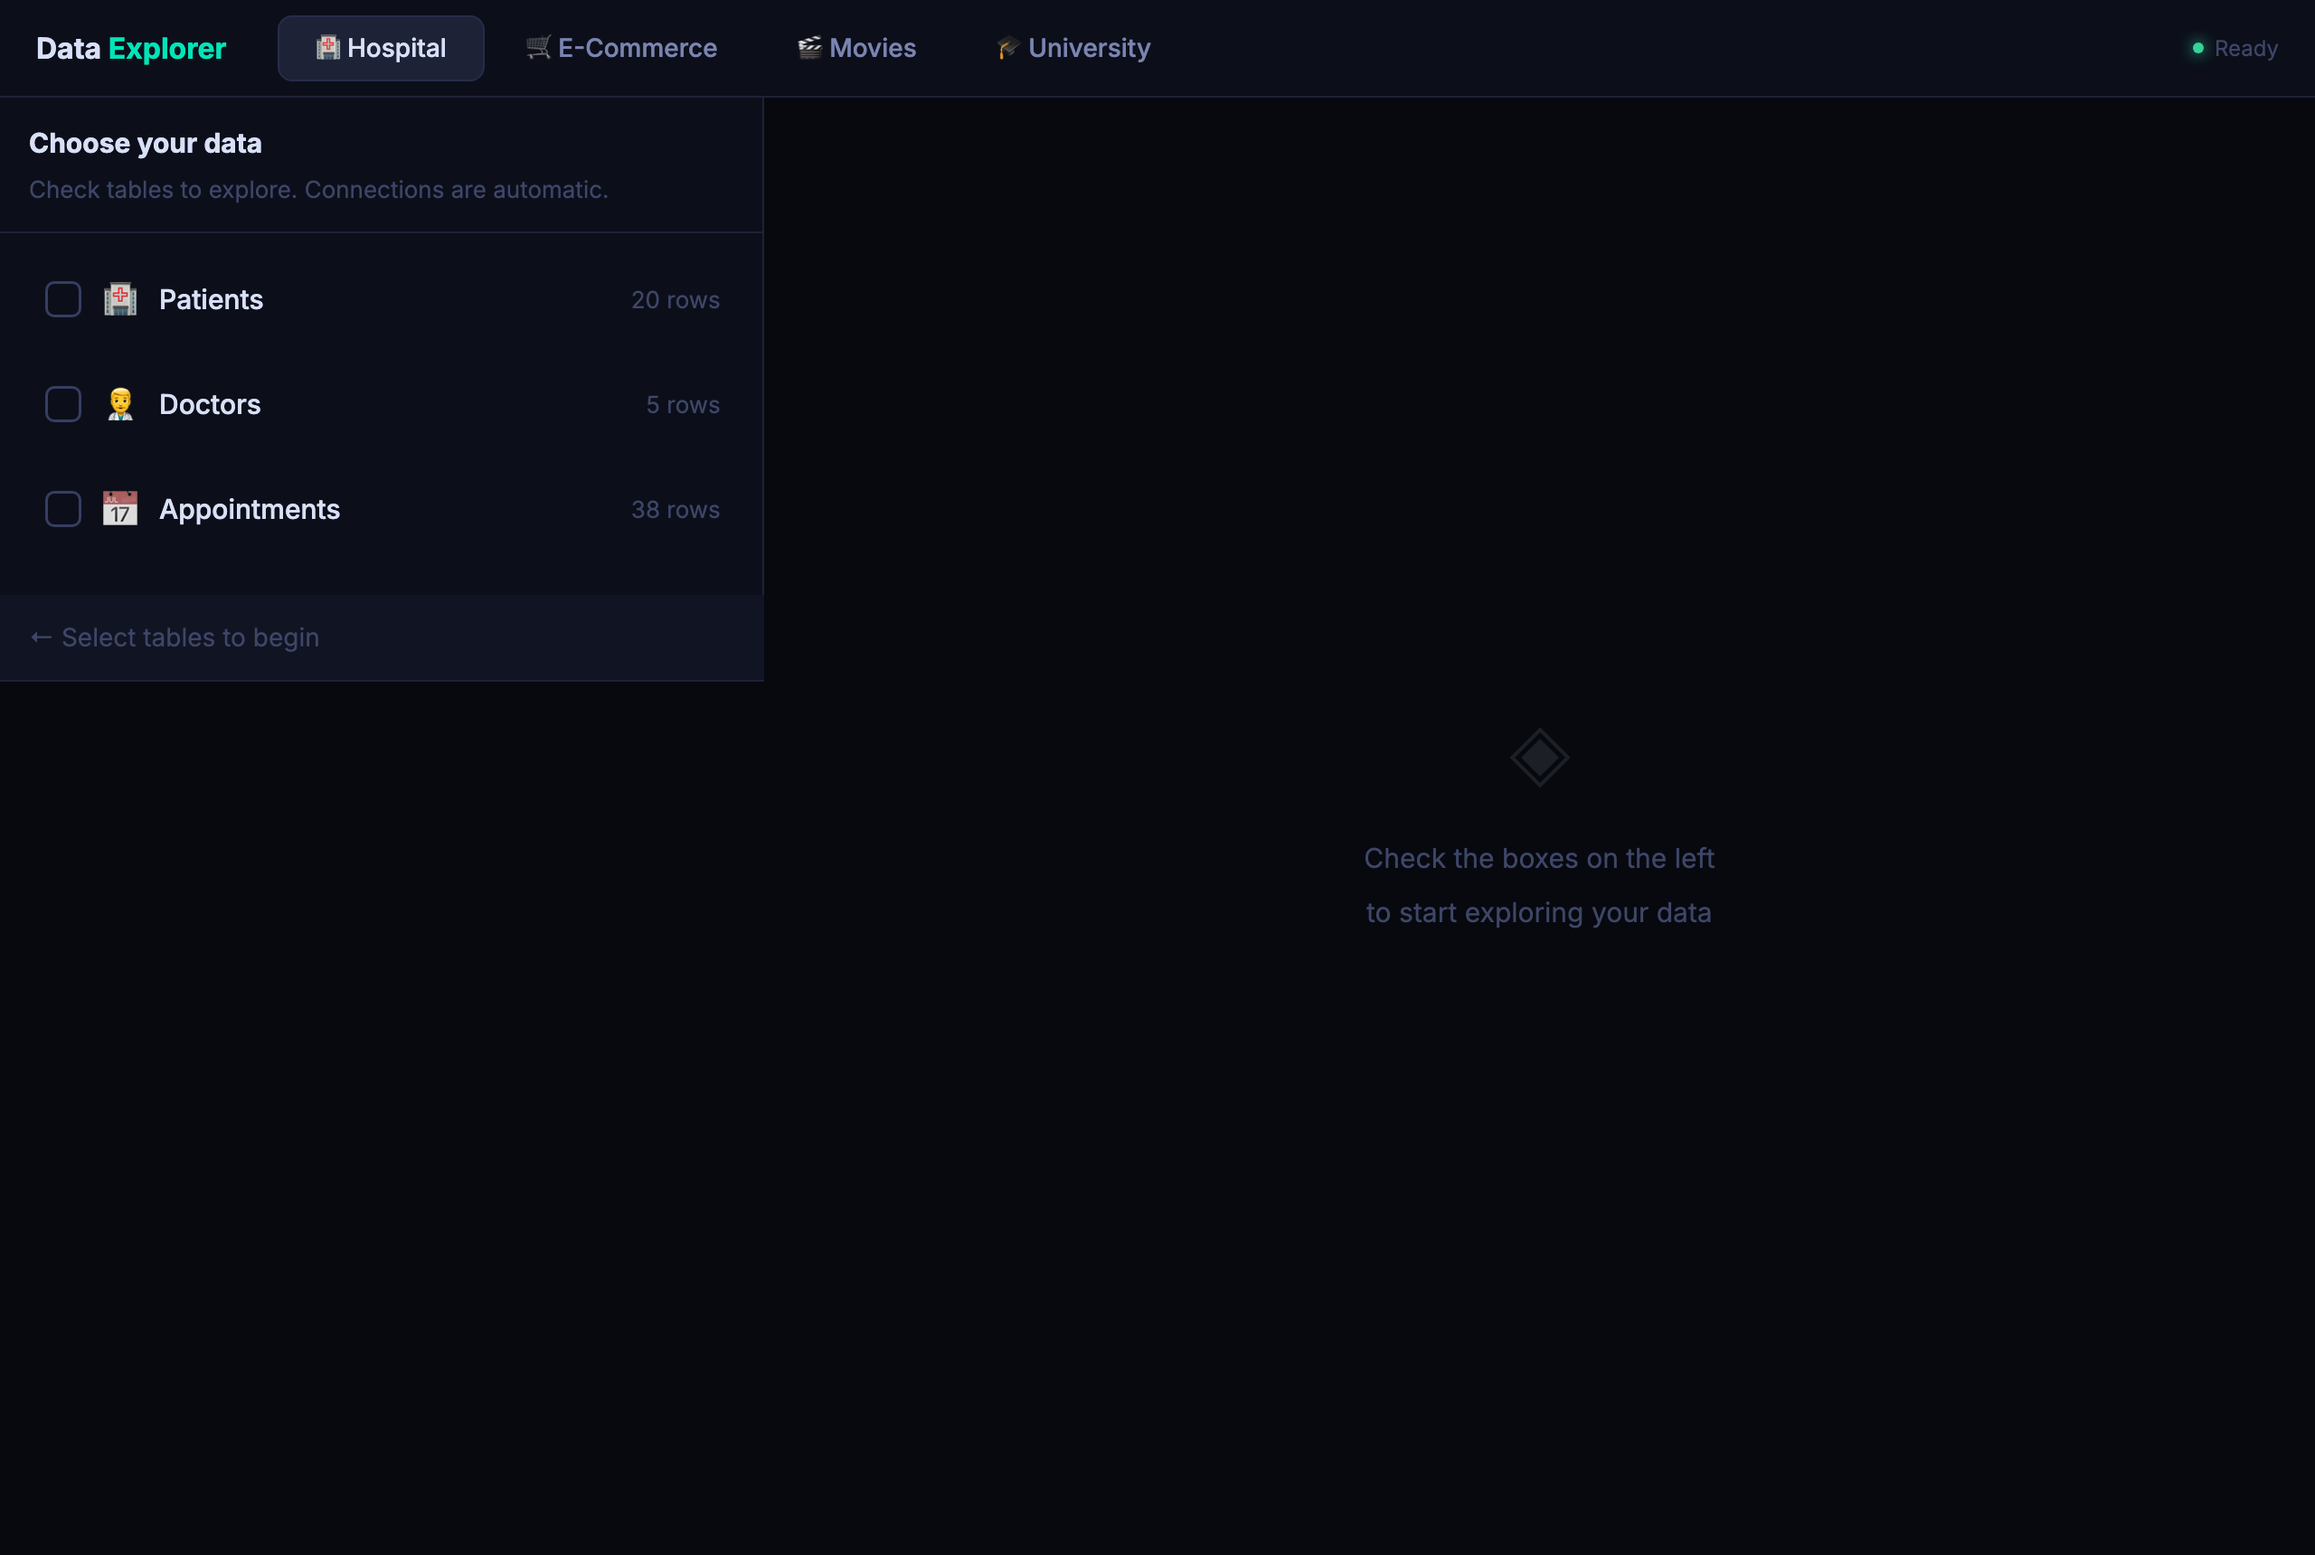
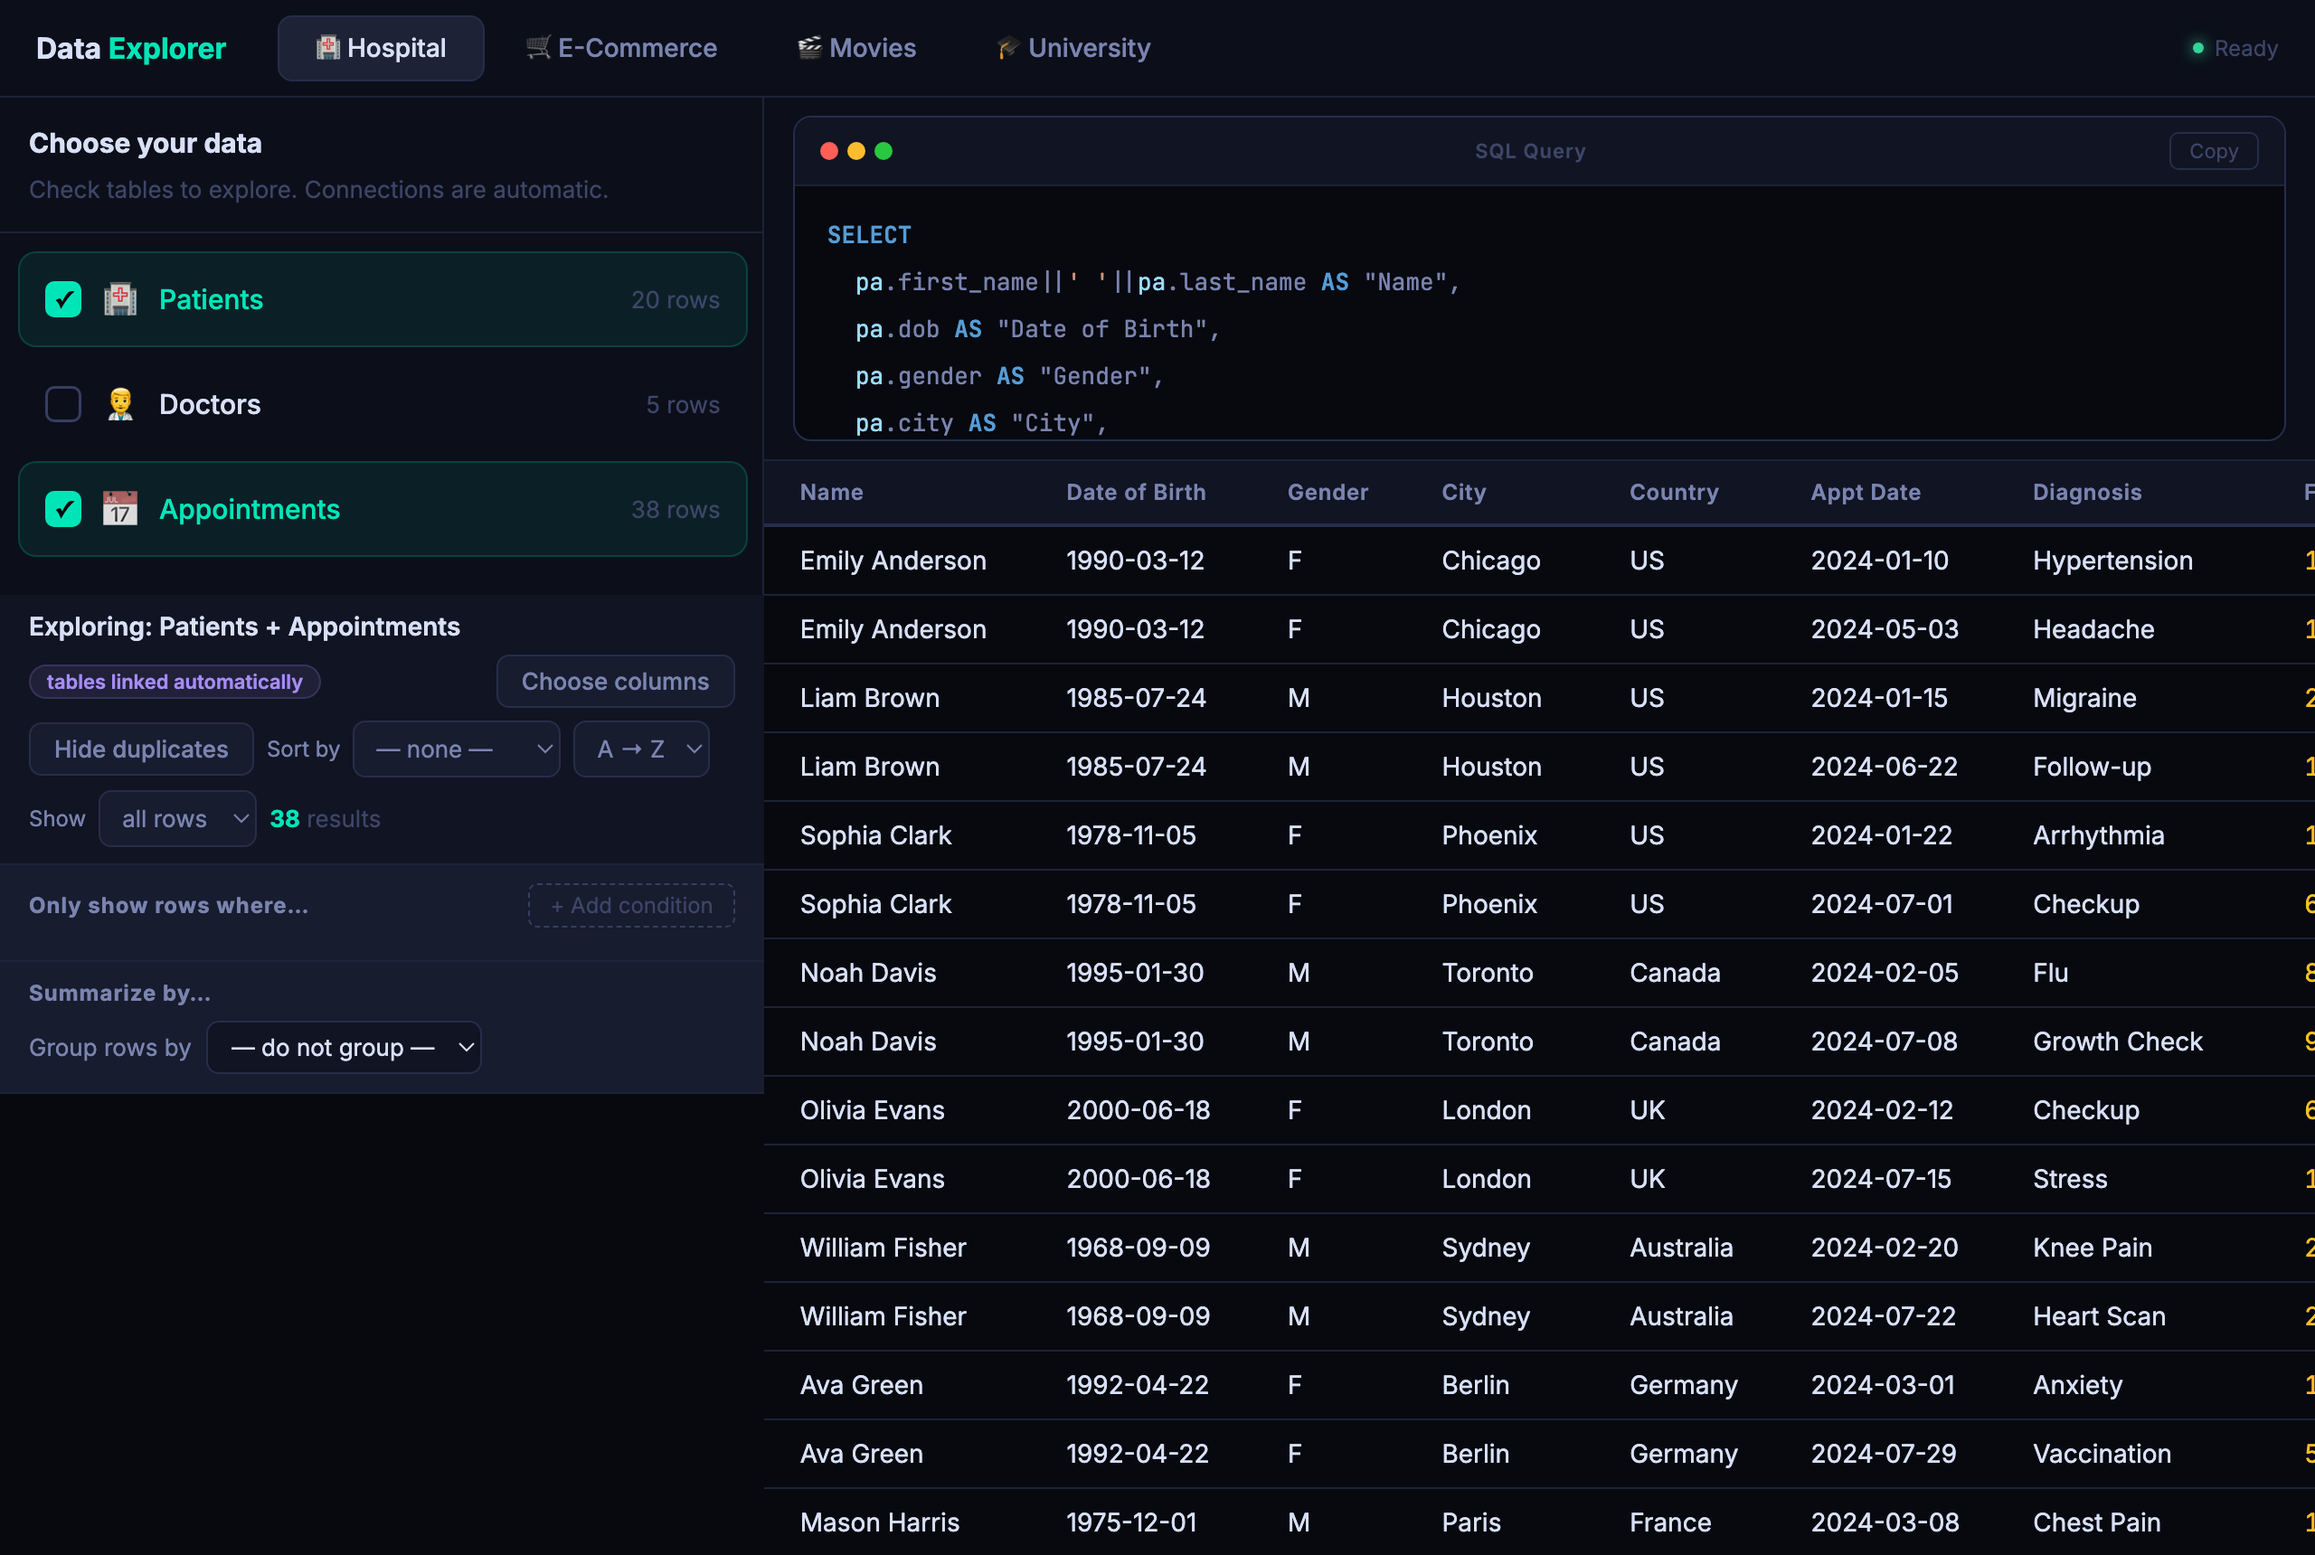
Deep links to a pre-selected view, and a real screenshot
?db=<name>&tables=<a,b> selects a database and tables on load, so a specific
view can be shared with students without clicking through. The README
screenshot now shows the explorer with two tables joined automatically.

diff --git a/index.html b/index.html
@@ -808,6 +808,17 @@ async function init(){
   fadeOut('ld');
   setStatus('ok','Ready');
   renderSidebar('hospital');
+  // Deep link: ?db=movies&tables=film,director pre-selects a database and tables,
+  // so a specific view can be shared with students (or screenshotted) without clicking.
+  try{
+    const q=new URLSearchParams(location.search);
+    const db=q.get('db');
+    if(db&&DDL[db]&&db!==currentDB) switchDB(db);
+    (q.get('tables')||'').split(',').map(s=>s.trim()).filter(Boolean).forEach(t=>{
+      const tbl=SCHEMA[currentDB].tables[t];
+      if(tbl&&!tbl.bridge&&!selectedTables.has(t)) toggleTable(t);
+    });
+  }catch(e){}
 }
 
 function qdb(name,sql){

diff --git a/README.md b/README.md
@@ -8,6 +8,9 @@ to what SQL actually looks like in practice.
 
 ![SQL-Viz-for-Edu](docs/screenshot.png)
 
+Share a specific view with a link: `?db=movies&tables=film,director` pre-selects the database
+and tables (table keys are the ones used in the schema, e.g. `patient`, `order_hdr`, `film`).
+
 ## How it works
 
 - Pick one or more tables from the left panel
